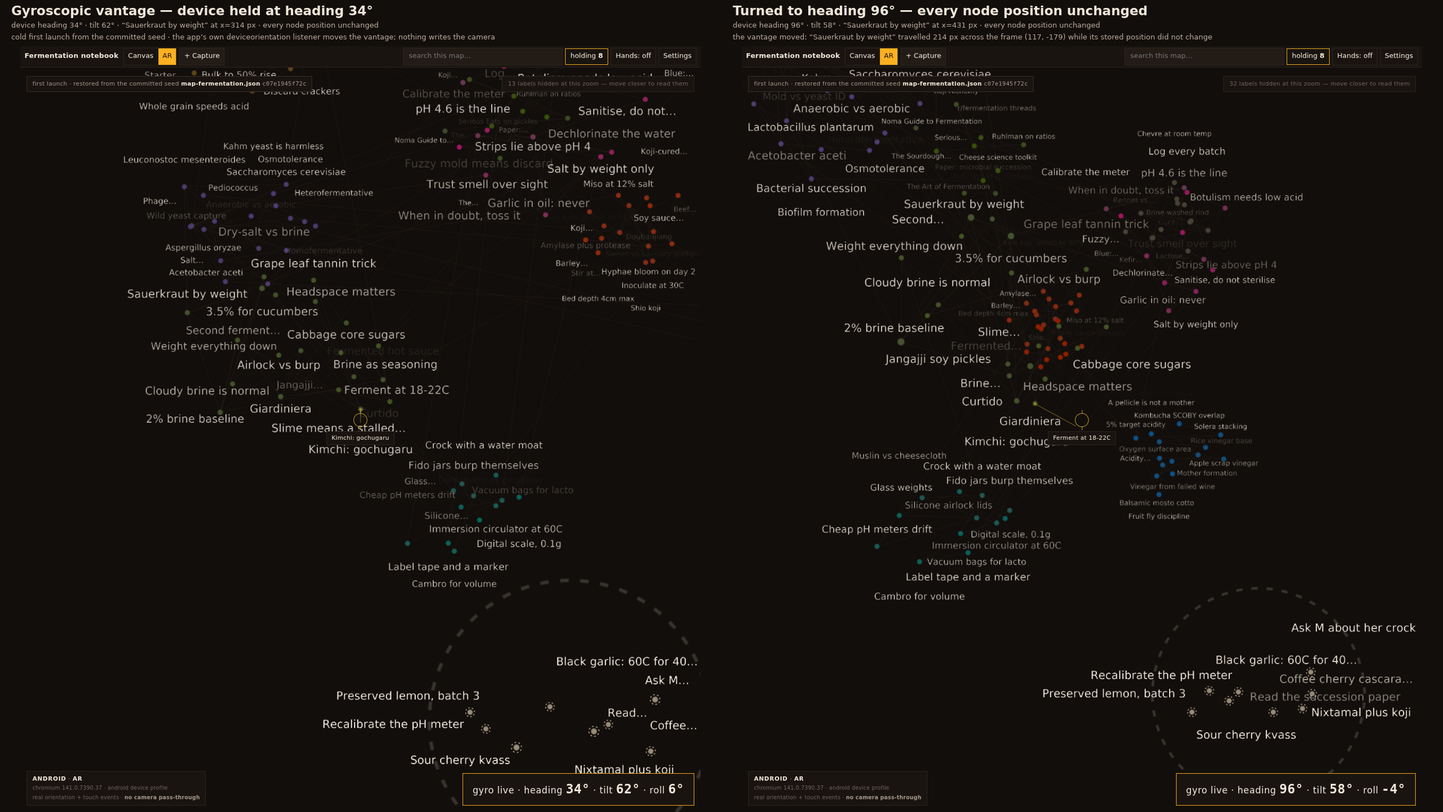
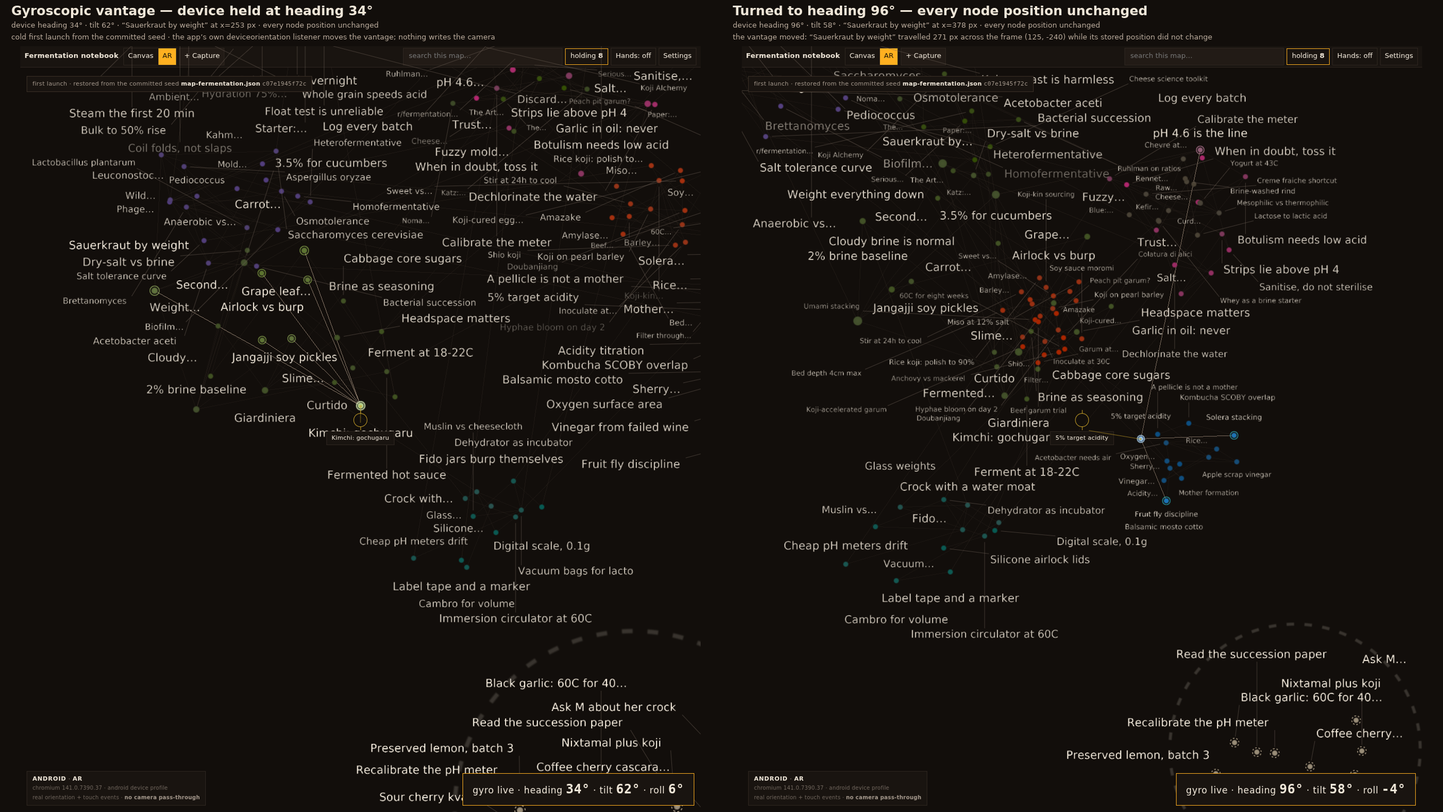
The AR reticle lights what it is aimed at
C10: the hero was two dense text fields at uniform weight with nothing
designed to be looked at first. Framing alone could not fix it — closer
was denser. The node the reticle names now takes the top rung of the
ladder and brings its filaments live, the same treatment a selected
node gets, without opening the editor: aiming is not selecting, and a
panel would cover the thing it is about. The brightest thing in the
frame is now the thing the readout names, joined to the ring by its
leader.

Recipes regenerated. Model invariants 11/11.

Claude-Session: https://claude.ai/code/session_01BT5p3inXumopt6DcdL91Hd

diff --git a/src/dist/app.js b/src/dist/app.js
@@ -4663,7 +4663,7 @@ tr.map:hover{background:var(--panel)}
       <button data-t="open-states" class="ghost">States</button>
       <button data-t="open-finder" class="ghost">Finder</button>
       <button data-t="open-maps" class="ghost">Maps</button>
-      <button data-t="open-settings" class="ghost">Settings</button>`,document.body.append(e,Lt("div",{id:"lenstag","data-t":"lens-tag"}),Lt("div",{id:"gesture","data-t":"gesture-hud"}),Lt("div",{id:"argyro","data-t":"ar-gyro"}),Lt("div",{id:"toast","data-t":"toast"}),Lt("div",{id:"tools","data-t":"tools"})),ve("[data-t=capture]").addEventListener("click",()=>this.quickAdd(ve("#capture").value)),ve("#capture").addEventListener("keydown",r=>{r.key==="Enter"&&this.quickAdd(ve("#capture").value)}),ve("[data-t=open-states]").addEventListener("click",()=>this.toggleStates()),ve("[data-t=hands-chip]").addEventListener("click",()=>this.toggleHands(!this.handsOn)),ve("[data-t=open-maps]").addEventListener("click",()=>this.openMapsHome()),ve("[data-t=open-settings]").addEventListener("click",()=>this.openSettings()),ve("[data-t=open-finder]").addEventListener("click",()=>this.toggleFinder());let n=ve("#search");n.addEventListener("input",()=>this.search(n.value)),n.addEventListener("keydown",r=>{r.key==="Enter"&&this.flyToHit(r.shiftKey?-1:1)});let i=ve("[data-t=lens-tabs]");for(let r of this.lenses()){let a=Lt("button",{"data-t":`lens-${r}`},r==="expansion"?"Mind expansion":r==="ar"?"AR":"Canvas");a.addEventListener("click",()=>this.setLens(r)),i.appendChild(a)}let s=ve("#tools");for(let r of Xs){let a={fist:"Grab",spread:"Closer",gather:"Back",two:"Select"},o=Lt("button",{"data-t":`tool-${r.id}`,title:`${r.name} \u2014 ${r.mouse}`},a[r.id]??r.name);o.addEventListener("click",()=>this.runHandOperation(r.id,!0)),s.appendChild(o)}}attachInput(){let e=ve("#world");this.surface==="windows"?this.controls.attachMouse(e):this.controls.attachTouch(e),window.addEventListener("keydown",n=>{let i=n.target?.tagName;i==="INPUT"||i==="TEXTAREA"||((n.key==="n"||n.key==="N")&&(n.preventDefault(),this.quickAdd("")),n.key==="Escape"&&(this.select(null),this.closeOverlays()))}),window.addEventListener("deviceorientation",n=>{if(this.lens!=="ar"||n.alpha===null)return;let i=this.gyro;this.gyro={alpha:n.alpha??0,beta:n.beta??90,gamma:n.gamma??0},i&&Math.abs(this.gyro.alpha-i.alpha)+Math.abs(this.gyro.beta-i.beta)>1.5&&(this.uiUntil.turning=this.now()+1400),this.controls.applyOrientation(this.gyro.alpha,this.gyro.beta,this.gyro.gamma),this.renderGyro()})}setLens(e){this.lens=e,this.scene.applyLens(e);for(let s of this.lenses())ve(`[data-t=lens-${s}]`).classList.toggle("on",s===e);ve("#tools").classList.toggle("show",e==="expansion"),document.body.classList.toggle("ar",e==="ar"),this.controls.gyroDriven=e==="ar",e==="ar"&&this.controls.resetGyroBase();let n=this.provenance(),i=n.isElectron?`${n.runtime} \xB7 ${n.platform}`:this.surface==="android"?`${n.runtime} \xB7 android device profile`:`${n.runtime} \xB7 ${n.platform}`;ve("#lenstag").innerHTML=`<b>${this.surface==="windows"?"Windows":"Android"}</b> \xB7 <b>${e==="expansion"?"mind expansion":e}</b> <span class="prov">${ft(i)}</span>`+(e==="ar"?' <span class="prov">real orientation + touch events \xB7 <b class="absent">no camera pass-through</b></span>':""),e==="expansion"&&this.frameAll(),this.renderGyro(),this.scene.markDirty()}renderReticle(){let e=document.getElementById("reticle");if(this.lens!=="ar"){e?.remove();return}e||(e=Lt("div",{id:"reticle","data-t":"ar-reticle"}),e.innerHTML='<div class="lead" data-t="reticle-lead"></div><div class="x"></div><div class="n" data-t="reticle-node"></div>',document.body.appendChild(e));let n=this.scene.renderer.domElement,i=n.width/2,s=n.height/2,r=null;for(let u of this.scene.screenPositions()){let f=Math.hypot(u.x-i,u.y-s);(!r||f<r.d)&&(r={id:u.id,d:f,x:u.x,y:u.y})}let a=n.width*.22,o=!!r&&r.d<a,l=o?this.store.doc.nodes[r.id]:null,c=ve("[data-t=reticle-node]",e);e.classList.toggle("on",o),c.textContent=l?`${l.text}${l.placed?"":" \xB7 in holding"}`:"pointing at open space";let h=ve("[data-t=reticle-lead]",e),d=n.width/Math.max(window.innerWidth,1);if(o&&r){let u=(r.x-i)/d,f=(r.y-s)/d,g=Math.hypot(u,f),_=13;h.style.width=`${Math.max(g-_,0).toFixed(1)}px`,h.style.transform=`rotate(${(Math.atan2(f,u)*180/Math.PI).toFixed(2)}deg) translateX(${_}px)`,h.style.opacity=g>_+4?"":"0"}else h.style.width="0px"}renderGyro(){let e=document.getElementById("argyro");if(!e||(e.classList.toggle("show",this.lens==="ar"),this.lens!=="ar"))return;let n=this.gyro;e.classList.toggle("turning",this.now()<this.uiUntil.turning),e.innerHTML=n?`gyro live \xB7 heading <b>${n.alpha.toFixed(0)}\xB0</b> \xB7 tilt <b>${n.beta.toFixed(0)}\xB0</b> \xB7 roll <b>${n.gamma.toFixed(0)}\xB0</b>`:"gyro \xB7 waiting for orientation"}safeInsets(){let e=Math.max(window.innerHeight,1),n=Math.max(window.innerWidth,1),i=h=>{let d=document.querySelector(h);if(!d||!d.offsetParent&&getComputedStyle(d).position!=="fixed")return 0;let u=d.getBoundingClientRect();return u.width>0&&u.height>0?u.height:0},s=22,r=Math.max(i("#tools"),i("#lenstag"),i("#argyro"),i("#gesture"))+12,a=i("#top"),o=12,l=12;for(let h of["#finder","#states"]){let d=document.querySelector(h);d&&(o=Math.max(o,d.getBoundingClientRect().right+14))}let c=document.getElementById("editor");return c&&(l=Math.max(l,n-c.getBoundingClientRect().left+14)),{top:Math.min((a+s)/e,.22),bottom:Math.min((r+s)/e,.22),left:Math.min(o/n,.38),right:Math.min(l/n,.38)}}frameNodes(e,n=1.3){let i=this.store.doc,s=e.map(a=>i.nodes[a]).filter(Boolean);if(!s.length)return;let r=this.scene.fitAll(s,n,this.safeInsets(),!1);this.scene.pose.target.copy(r.target),this.scene.pose.dist=r.dist}frameAll(e=1.04){let n=this.scene.fitAll(Cn(this.store.doc),e,this.safeInsets());this.scene.pose.target.copy(n.target),this.scene.pose.dist=n.dist,this.controls.minDist=Math.max(n.dist*.22,4),this.controls.maxDist=n.dist*2.1}resize(){let e=Math.floor(window.innerWidth),n=Math.floor(window.innerHeight);this.scene.setSize(e,n);let i=ve("#world");i.style.width=e+"px",i.style.height=n+"px"}quickAdd(e){let n=(e||"").trim(),i=this.store.quickAdd(n||"New thought");return ve("#capture").value="",this.select(i),this.toast(`Captured into holding \u2014 ${this.store.holdingCount()} waiting. Drag it out to place it.`),i}select(e){let n=e!==null&&this.selected===null;this.selected=e,this.scene.setSelection(e),this.renderEditor(),n&&this.clearOfPanels(e)}clearOfPanels(e){let n=this.scene.renderer.domElement,i=n.width/Math.max(window.innerWidth,1),s=0,r=0;for(let u of["#finder","#states"]){let f=document.querySelector(u);f&&(s=Math.max(s,(f.getBoundingClientRect().right+16)*i))}let a=document.getElementById("editor");if(a&&(r=Math.max(r,(n.width/i-a.getBoundingClientRect().left+16)*i)),!s&&!r)return;let{lo:o,hi:l}=this.scene.contentBoundsX();if(!isFinite(o)||!isFinite(l))return;let c=s,h=n.width-r,d=0;if(l-o<=h-c)o<c?d=c-o:l>h&&(d=h-l);else{let u=e?this.scene.screenPositions().find(m=>m.id===e):void 0,f=e?this.scene.labelRects.get(e):void 0,g=Math.min(u?u.x-u.r:1/0,f?f.x0:1/0),_=Math.max(u?u.x+u.r:-1/0,f?f.x1:-1/0);!isFinite(g)||!isFinite(_)?d=(c+h)/2-(o+l)/2:g<c?d=c-g:_>h&&(d=h-_)}Math.abs(d)<4||this.controls.panTarget(d,0)}search(e){this.hits=wg(this.store.doc,e).map(n=>n.id),this.hitIndex=0,this.scene.setHits(this.hits),this.refresh()}flyToHit(e=0){if(!this.hits.length)return;e&&(this.hitIndex=(this.hitIndex+e+this.hits.length)%this.hits.length);let n=this.hits[this.hitIndex];this.select(n),this.controls.flyTo(n,1300,this.lens==="expansion"?15:12)}async toggleHands(e){if(this.handsOn=e,this.renderHandPanel(),e){let n=document.getElementById("handvid");if(!n){this.handsOn=!1,this.toast("Hand tracking unavailable: no video surface",!0);return}try{await this.hands.start(n)}catch(i){this.handsOn=!1,this.toast(`Hand tracking unavailable: ${i.message}`,!0)}}else this.hands.stop();this.renderHandPanel()}onHand(e){if(this.drawLandmarks(e),this.renderHandPanel(),!e.present||e.pose==="none"){this.handGrab=null;return}this.runHandOperation(e.pose,!1,e)}runHandOperation(e,n,i){let s=Xs.find(o=>o.id===e);this.showGesture(n?`mouse:${e}`:e,s.operation.split(" \u2014 ")[0]);let r=this.now(),a=!n&&r-this.lastHandOp<250;if(e==="spread"||e==="gather"){if(a)return;this.lastHandOp=r,this.controls.zoom(e==="spread"?n?1/1.12:.985:n?1.12:1.015)}else if(e==="two"){let o=this.scene.renderer.domElement,l=i?(1-i.x)*o.width:o.width/2,c=i?i.y*o.height:o.height/2;this.select(this.scene.pick(l,c,26))}else if(e==="fist"){let o=this.scene.renderer.domElement,l=i?(1-i.x)*o.width:o.width/2,c=i?i.y*o.height:o.height/2;if(!this.handGrab){let _=this.scene.pick(l,c,70);if(!_)return;this.handGrab={ids:this.controls.clusterOf(_),x:l,y:c};return}let h=this.store.node(this.handGrab.ids[0]);if(!h){this.handGrab=null;return}let d=new L(...h.pos),u=this.scene.screenToWorld(this.handGrab.x,this.handGrab.y,d),g=this.scene.screenToWorld(l,c,d).sub(u);g.length()>.02&&(this.store.moveCluster(this.handGrab.ids,[g.x,g.y,g.z]),this.handGrab.x=l,this.handGrab.y=c)}this.scene.markDirty()}drawLandmarks(e){let n=document.getElementById("handlm");if(!n)return;n.width!==288&&(n.width=288,n.height=216);let i=n.getContext("2d");if(i.clearRect(0,0,n.width,n.height),!e.present)return;let s=[[0,1],[1,2],[2,3],[3,4],[0,5],[5,6],[6,7],[7,8],[5,9],[9,10],[10,11],[11,12],[9,13],[13,14],[14,15],[15,16],[13,17],[17,18],[18,19],[19,20],[0,17]],r=o=>(1-o.x)*n.width,a=o=>o.y*n.height;i.strokeStyle="#FFB020",i.lineWidth=2;for(let[o,l]of s){let c=e.landmarks[o],h=e.landmarks[l];!c||!h||(i.beginPath(),i.moveTo(r(c),a(c)),i.lineTo(r(h),a(h)),i.stroke())}i.fillStyle="#EFE6D8";for(let o of e.landmarks)i.beginPath(),i.arc(r(o),a(o),2.6,0,7),i.fill()}now(){return this.virtualNow??performance.now()}renderFrame(){let e=this.now();this.controls.tickTimers(e),this.controls.tickFly(e),this.tickUi(e),this.scene.clock=this.frozenClock??e/1e3,this.scene.render(),this.renderReticle(),this.renderHidden(),this.renderClusterProof()}renderAt(e){this.virtualNow=e,this.renderFrame()}tickUi(e){this.uiUntil.toast&&e>=this.uiUntil.toast&&(ve("#toast").className="",this.uiUntil.toast=0),this.uiUntil.gesture&&e>=this.uiUntil.gesture&&(ve("#gesture").classList.remove("show"),this.uiUntil.gesture=0)}loop=()=>{this.renderFrame(),this.raf=requestAnimationFrame(this.loop)};stop(){cancelAnimationFrame(this.raf)}start(){cancelAnimationFrame(this.raf),this.raf=requestAnimationFrame(this.loop)}refresh(){ve("[data-t=map-name]").textContent=this.store.doc.name,ve("[data-t=holding-count]").textContent=String(this.store.holdingCount()),ve("[data-t=holding-chip]").classList.toggle("on",this.store.holdingCount()>0),this.renderEditor(),ve("#finder")&&this.renderFinder(),ve("#settings")&&this.renderSyncStatus()}panelOpen(){return!!document.querySelector("#finder, #states, .overlay")}rightPanelOpen(){return!!document.querySelector("#editor, .overlay")}reflowSessionChips(){let e=this.panelOpen();for(let n of["origin","activity"]){let i=document.getElementById(n);i&&(i.style.visibility=e?"hidden":"")}}showOrigin(e){let n=document.getElementById("origin");n||(n=Lt("div",{id:"origin","data-t":"map-origin"}),document.body.appendChild(n)),n.className=e.from==="seed"?"seed":"",n.innerHTML=e.from==="seed"?`first launch \xB7 restored from the committed seed <b>${ft((e.file??"").replace("seeds/",""))}</b>`+(e.sha256?` <span class="mono">${ft(e.sha256.slice(0,12))}</span>`:""):"live state"}renderHidden(){let e=document.getElementById("hidden");e||(e=Lt("div",{id:"hidden","data-t":"labels-hidden"}),document.body.appendChild(e));let n=this.scene.suppressed;e.className=n>0&&!this.panelOpen()&&!this.rightPanelOpen()?"show":"",e.textContent=n>0?`${n} label${n===1?"":"s"} hidden at this zoom \u2014 move closer to read them`:"",this.renderUnlabelled(),this.renderLeaders()}renderLeaders(){let e=document.getElementById("leaders");e||(e=document.createElementNS("http://www.w3.org/2000/svg","svg"),e.setAttribute("id","leaders"),e.setAttribute("data-t","label-leaders"),document.body.appendChild(e));let i=this.scene.renderer.domElement.width/Math.max(window.innerWidth,1),s=this.scene.screenPositions(),r=[];this.leaderFor.clear();for(let a of s){let o=this.store.doc.nodes[a.id];if(!o)continue;let l=this.scene.labelRects.get(a.id);if(!l||l.alpha<=.02)continue;let c=this.scene.labelNeedsLeader.has(a.id);if(!(!c&&!o.placed)){if(!c)continue}let h=y=>{let S=Math.min(Math.max(y.x,l.x0),l.x1),M=Math.min(Math.max(y.y,l.y0),l.y1);return Math.hypot(y.x-S,y.y-M)},d=a,u=h(a);for(let y of s){let S=h(y);S<u&&(u=S,d=y)}if(!c&&d.id===a.id)continue;this.leaderFor.add(a.id);let f=a.x/i,g=a.y/i,_=Math.min(Math.max(f,l.x0/i),l.x1/i),m=Math.min(Math.max(g,l.y0/i),l.y1/i),p=Math.hypot(_-f,m-g)||1,w=Math.max(a.r/i,3)+2,T=Math.min(w/p,.9);r.push(`<line x1="${(f+(_-f)*T).toFixed(1)}" y1="${(g+(m-g)*T).toFixed(1)}" x2="${_.toFixed(1)}" y2="${m.toFixed(1)}"></line>`)}e.innerHTML=r.join("")}leaderFor=new Set;renderUnlabelled(){let e=document.getElementById("unlabelled");e||(e=Lt("div",{id:"unlabelled","data-t":"unlabelled-list"}),document.body.appendChild(e));let n=this.scene.suppressedIds,i=this.lens==="expansion"&&n.length>0&&!this.panelOpen()&&!this.rightPanelOpen();if(e.className=i?"show":"",!i){e.innerHTML="";return}let s=Math.max(1,Math.floor((e.clientHeight-26)/18)),r=n.map(l=>this.store.doc.nodes[l]).filter(Boolean).sort((l,c)=>l.createdAt-c.createdAt),a=r.slice(0,s),o=r.length-a.length;e.innerHTML=`<h4>${r.length} thought${r.length===1?"":"s"} on screen without room for a label</h4>`+a.map(l=>`<li><i style="background:${na[l.color]??"#8A7C70"}"></i>${ft(l.text)}</li>`).join("")+(o>0?`<li style="opacity:.6">\u2026and ${o} more</li>`:"")}renderClusterProof(){let e=document.getElementById("clusterproof"),n=this.controls?.lastClusterMove??null;if(!n){e?.remove();return}e||(e=Lt("div",{id:"clusterproof","data-t":"cluster-proof"}),document.body.appendChild(e)),e.className=this.panelOpen()?"":"show",e.innerHTML=`cluster <b>${ft(n.label)}</b> \xB7 ${n.members} nodes moved together<br>travelled <b>${n.travelled.toFixed(2)}</b> \xB7 internal arrangement drift <b>${n.drift.toFixed(6)}</b>`;let i=document.getElementById("origin"),r=i&&getComputedStyle(i).display!=="none"?i.getBoundingClientRect():null;e.style.top=r&&r.height>1?`${Math.round(r.bottom+8)}px`:""}renderActivity(){let e=document.getElementById("activity");e||(e=Lt("div",{id:"activity","data-t":"last-change"}),document.body.appendChild(e));let n=this.store.lastChange;if(!n){e.className="",e.textContent="";return}e.className="show"+(n.remote?" remote":""),e.innerHTML=n.remote?`last change arrived from <b>${ft(n.actor)}</b> \u2014 ${ft(n.what)}`:`last change made here \u2014 ${ft(n.what)}`}toast(e,n=!1){let i=ve("#toast");i.textContent=e,i.className="show"+(n?" bad":""),this.uiUntil.toast=this.now()+(n?9e3:4200)}showGesture(e,n){this.lastGesture={id:e,detail:n,at:performance.now()};let i=ve("#gesture"),s=Sp.find(h=>h.id===e),r=Xs.find(h=>h.id===e||`mouse:${h.id}`===e),a=vv[e],o=s?.name??r?.name??a?.name??(e==="gyro"?"Gyroscope":e),l=e.startsWith("mouse:")?r:a?.standsIn?Xs.find(h=>h.id===a.standsIn):void 0,c=l?e.startsWith("mouse:")?`${l.mouse.split(", or ")[0]} \u2014 the ${l.name} equivalent`:`${o} \u2014 the ${l.name} equivalent`:o;i.innerHTML=`<span class="n">${ft(c)}</span> <span class="o">\u2014 ${ft(n)}</span>`,i.classList.add("show"),this.uiUntil.gesture=this.now()+2600}get lastGestureFired(){return this.lastGesture}renderEditor(){let e=document.getElementById("editor"),n=this.selected?this.store.node(this.selected):void 0;if(!n){e?.remove();return}let i=e??(()=>{let a=Lt("div",{class:"panel",id:"editor","data-t":"editor"});return document.body.appendChild(a),a})(),s=this.controls.linkArmed===n.id;i.innerHTML=`
+      <button data-t="open-settings" class="ghost">Settings</button>`,document.body.append(e,Lt("div",{id:"lenstag","data-t":"lens-tag"}),Lt("div",{id:"gesture","data-t":"gesture-hud"}),Lt("div",{id:"argyro","data-t":"ar-gyro"}),Lt("div",{id:"toast","data-t":"toast"}),Lt("div",{id:"tools","data-t":"tools"})),ve("[data-t=capture]").addEventListener("click",()=>this.quickAdd(ve("#capture").value)),ve("#capture").addEventListener("keydown",r=>{r.key==="Enter"&&this.quickAdd(ve("#capture").value)}),ve("[data-t=open-states]").addEventListener("click",()=>this.toggleStates()),ve("[data-t=hands-chip]").addEventListener("click",()=>this.toggleHands(!this.handsOn)),ve("[data-t=open-maps]").addEventListener("click",()=>this.openMapsHome()),ve("[data-t=open-settings]").addEventListener("click",()=>this.openSettings()),ve("[data-t=open-finder]").addEventListener("click",()=>this.toggleFinder());let n=ve("#search");n.addEventListener("input",()=>this.search(n.value)),n.addEventListener("keydown",r=>{r.key==="Enter"&&this.flyToHit(r.shiftKey?-1:1)});let i=ve("[data-t=lens-tabs]");for(let r of this.lenses()){let a=Lt("button",{"data-t":`lens-${r}`},r==="expansion"?"Mind expansion":r==="ar"?"AR":"Canvas");a.addEventListener("click",()=>this.setLens(r)),i.appendChild(a)}let s=ve("#tools");for(let r of Xs){let a={fist:"Grab",spread:"Closer",gather:"Back",two:"Select"},o=Lt("button",{"data-t":`tool-${r.id}`,title:`${r.name} \u2014 ${r.mouse}`},a[r.id]??r.name);o.addEventListener("click",()=>this.runHandOperation(r.id,!0)),s.appendChild(o)}}attachInput(){let e=ve("#world");this.surface==="windows"?this.controls.attachMouse(e):this.controls.attachTouch(e),window.addEventListener("keydown",n=>{let i=n.target?.tagName;i==="INPUT"||i==="TEXTAREA"||((n.key==="n"||n.key==="N")&&(n.preventDefault(),this.quickAdd("")),n.key==="Escape"&&(this.select(null),this.closeOverlays()))}),window.addEventListener("deviceorientation",n=>{if(this.lens!=="ar"||n.alpha===null)return;let i=this.gyro;this.gyro={alpha:n.alpha??0,beta:n.beta??90,gamma:n.gamma??0},i&&Math.abs(this.gyro.alpha-i.alpha)+Math.abs(this.gyro.beta-i.beta)>1.5&&(this.uiUntil.turning=this.now()+1400),this.controls.applyOrientation(this.gyro.alpha,this.gyro.beta,this.gyro.gamma),this.renderGyro()})}setLens(e){this.lens=e,this.scene.applyLens(e);for(let s of this.lenses())ve(`[data-t=lens-${s}]`).classList.toggle("on",s===e);ve("#tools").classList.toggle("show",e==="expansion"),document.body.classList.toggle("ar",e==="ar"),this.controls.gyroDriven=e==="ar",e==="ar"&&this.controls.resetGyroBase();let n=this.provenance(),i=n.isElectron?`${n.runtime} \xB7 ${n.platform}`:this.surface==="android"?`${n.runtime} \xB7 android device profile`:`${n.runtime} \xB7 ${n.platform}`;ve("#lenstag").innerHTML=`<b>${this.surface==="windows"?"Windows":"Android"}</b> \xB7 <b>${e==="expansion"?"mind expansion":e}</b> <span class="prov">${ft(i)}</span>`+(e==="ar"?' <span class="prov">real orientation + touch events \xB7 <b class="absent">no camera pass-through</b></span>':""),e==="expansion"&&this.frameAll(),this.renderGyro(),this.scene.markDirty()}renderReticle(){let e=document.getElementById("reticle");if(this.lens!=="ar"){e?.remove();return}e||(e=Lt("div",{id:"reticle","data-t":"ar-reticle"}),e.innerHTML='<div class="lead" data-t="reticle-lead"></div><div class="x"></div><div class="n" data-t="reticle-node"></div>',document.body.appendChild(e));let n=this.scene.renderer.domElement,i=n.width/2,s=n.height/2,r=null;for(let f of this.scene.screenPositions()){let g=Math.hypot(f.x-i,f.y-s);(!r||g<r.d)&&(r={id:f.id,d:g,x:f.x,y:f.y})}let a=n.width*.22,o=!!r&&r.d<a,l=o?this.store.doc.nodes[r.id]:null,c=o?r.id:null;c!==this.aimedAt&&(this.aimedAt=c,this.scene.setSelection(c??this.selected));let h=ve("[data-t=reticle-node]",e);e.classList.toggle("on",o),h.textContent=l?`${l.text}${l.placed?"":" \xB7 in holding"}`:"pointing at open space";let d=ve("[data-t=reticle-lead]",e),u=n.width/Math.max(window.innerWidth,1);if(o&&r){let f=(r.x-i)/u,g=(r.y-s)/u,_=Math.hypot(f,g),m=13;d.style.width=`${Math.max(_-m,0).toFixed(1)}px`,d.style.transform=`rotate(${(Math.atan2(g,f)*180/Math.PI).toFixed(2)}deg) translateX(${m}px)`,d.style.opacity=_>m+4?"":"0"}else d.style.width="0px"}renderGyro(){let e=document.getElementById("argyro");if(!e||(e.classList.toggle("show",this.lens==="ar"),this.lens!=="ar"))return;let n=this.gyro;e.classList.toggle("turning",this.now()<this.uiUntil.turning),e.innerHTML=n?`gyro live \xB7 heading <b>${n.alpha.toFixed(0)}\xB0</b> \xB7 tilt <b>${n.beta.toFixed(0)}\xB0</b> \xB7 roll <b>${n.gamma.toFixed(0)}\xB0</b>`:"gyro \xB7 waiting for orientation"}safeInsets(){let e=Math.max(window.innerHeight,1),n=Math.max(window.innerWidth,1),i=h=>{let d=document.querySelector(h);if(!d||!d.offsetParent&&getComputedStyle(d).position!=="fixed")return 0;let u=d.getBoundingClientRect();return u.width>0&&u.height>0?u.height:0},s=22,r=Math.max(i("#tools"),i("#lenstag"),i("#argyro"),i("#gesture"))+12,a=i("#top"),o=12,l=12;for(let h of["#finder","#states"]){let d=document.querySelector(h);d&&(o=Math.max(o,d.getBoundingClientRect().right+14))}let c=document.getElementById("editor");return c&&(l=Math.max(l,n-c.getBoundingClientRect().left+14)),{top:Math.min((a+s)/e,.22),bottom:Math.min((r+s)/e,.22),left:Math.min(o/n,.38),right:Math.min(l/n,.38)}}frameNodes(e,n=1.3){let i=this.store.doc,s=e.map(a=>i.nodes[a]).filter(Boolean);if(!s.length)return;let r=this.scene.fitAll(s,n,this.safeInsets(),!1);this.scene.pose.target.copy(r.target),this.scene.pose.dist=r.dist}frameAll(e=1.04){let n=this.scene.fitAll(Cn(this.store.doc),e,this.safeInsets());this.scene.pose.target.copy(n.target),this.scene.pose.dist=n.dist,this.controls.minDist=Math.max(n.dist*.22,4),this.controls.maxDist=n.dist*2.1}resize(){let e=Math.floor(window.innerWidth),n=Math.floor(window.innerHeight);this.scene.setSize(e,n);let i=ve("#world");i.style.width=e+"px",i.style.height=n+"px"}quickAdd(e){let n=(e||"").trim(),i=this.store.quickAdd(n||"New thought");return ve("#capture").value="",this.select(i),this.toast(`Captured into holding \u2014 ${this.store.holdingCount()} waiting. Drag it out to place it.`),i}select(e){let n=e!==null&&this.selected===null;this.selected=e,this.scene.setSelection(e),this.renderEditor(),n&&this.clearOfPanels(e)}clearOfPanels(e){let n=this.scene.renderer.domElement,i=n.width/Math.max(window.innerWidth,1),s=0,r=0;for(let u of["#finder","#states"]){let f=document.querySelector(u);f&&(s=Math.max(s,(f.getBoundingClientRect().right+16)*i))}let a=document.getElementById("editor");if(a&&(r=Math.max(r,(n.width/i-a.getBoundingClientRect().left+16)*i)),!s&&!r)return;let{lo:o,hi:l}=this.scene.contentBoundsX();if(!isFinite(o)||!isFinite(l))return;let c=s,h=n.width-r,d=0;if(l-o<=h-c)o<c?d=c-o:l>h&&(d=h-l);else{let u=e?this.scene.screenPositions().find(m=>m.id===e):void 0,f=e?this.scene.labelRects.get(e):void 0,g=Math.min(u?u.x-u.r:1/0,f?f.x0:1/0),_=Math.max(u?u.x+u.r:-1/0,f?f.x1:-1/0);!isFinite(g)||!isFinite(_)?d=(c+h)/2-(o+l)/2:g<c?d=c-g:_>h&&(d=h-_)}Math.abs(d)<4||this.controls.panTarget(d,0)}search(e){this.hits=wg(this.store.doc,e).map(n=>n.id),this.hitIndex=0,this.scene.setHits(this.hits),this.refresh()}flyToHit(e=0){if(!this.hits.length)return;e&&(this.hitIndex=(this.hitIndex+e+this.hits.length)%this.hits.length);let n=this.hits[this.hitIndex];this.select(n),this.controls.flyTo(n,1300,this.lens==="expansion"?15:12)}async toggleHands(e){if(this.handsOn=e,this.renderHandPanel(),e){let n=document.getElementById("handvid");if(!n){this.handsOn=!1,this.toast("Hand tracking unavailable: no video surface",!0);return}try{await this.hands.start(n)}catch(i){this.handsOn=!1,this.toast(`Hand tracking unavailable: ${i.message}`,!0)}}else this.hands.stop();this.renderHandPanel()}onHand(e){if(this.drawLandmarks(e),this.renderHandPanel(),!e.present||e.pose==="none"){this.handGrab=null;return}this.runHandOperation(e.pose,!1,e)}runHandOperation(e,n,i){let s=Xs.find(o=>o.id===e);this.showGesture(n?`mouse:${e}`:e,s.operation.split(" \u2014 ")[0]);let r=this.now(),a=!n&&r-this.lastHandOp<250;if(e==="spread"||e==="gather"){if(a)return;this.lastHandOp=r,this.controls.zoom(e==="spread"?n?1/1.12:.985:n?1.12:1.015)}else if(e==="two"){let o=this.scene.renderer.domElement,l=i?(1-i.x)*o.width:o.width/2,c=i?i.y*o.height:o.height/2;this.select(this.scene.pick(l,c,26))}else if(e==="fist"){let o=this.scene.renderer.domElement,l=i?(1-i.x)*o.width:o.width/2,c=i?i.y*o.height:o.height/2;if(!this.handGrab){let _=this.scene.pick(l,c,70);if(!_)return;this.handGrab={ids:this.controls.clusterOf(_),x:l,y:c};return}let h=this.store.node(this.handGrab.ids[0]);if(!h){this.handGrab=null;return}let d=new L(...h.pos),u=this.scene.screenToWorld(this.handGrab.x,this.handGrab.y,d),g=this.scene.screenToWorld(l,c,d).sub(u);g.length()>.02&&(this.store.moveCluster(this.handGrab.ids,[g.x,g.y,g.z]),this.handGrab.x=l,this.handGrab.y=c)}this.scene.markDirty()}drawLandmarks(e){let n=document.getElementById("handlm");if(!n)return;n.width!==288&&(n.width=288,n.height=216);let i=n.getContext("2d");if(i.clearRect(0,0,n.width,n.height),!e.present)return;let s=[[0,1],[1,2],[2,3],[3,4],[0,5],[5,6],[6,7],[7,8],[5,9],[9,10],[10,11],[11,12],[9,13],[13,14],[14,15],[15,16],[13,17],[17,18],[18,19],[19,20],[0,17]],r=o=>(1-o.x)*n.width,a=o=>o.y*n.height;i.strokeStyle="#FFB020",i.lineWidth=2;for(let[o,l]of s){let c=e.landmarks[o],h=e.landmarks[l];!c||!h||(i.beginPath(),i.moveTo(r(c),a(c)),i.lineTo(r(h),a(h)),i.stroke())}i.fillStyle="#EFE6D8";for(let o of e.landmarks)i.beginPath(),i.arc(r(o),a(o),2.6,0,7),i.fill()}now(){return this.virtualNow??performance.now()}renderFrame(){let e=this.now();this.controls.tickTimers(e),this.controls.tickFly(e),this.tickUi(e),this.scene.clock=this.frozenClock??e/1e3,this.scene.render(),this.renderReticle(),this.renderHidden(),this.renderClusterProof()}renderAt(e){this.virtualNow=e,this.renderFrame()}tickUi(e){this.uiUntil.toast&&e>=this.uiUntil.toast&&(ve("#toast").className="",this.uiUntil.toast=0),this.uiUntil.gesture&&e>=this.uiUntil.gesture&&(ve("#gesture").classList.remove("show"),this.uiUntil.gesture=0)}loop=()=>{this.renderFrame(),this.raf=requestAnimationFrame(this.loop)};stop(){cancelAnimationFrame(this.raf)}start(){cancelAnimationFrame(this.raf),this.raf=requestAnimationFrame(this.loop)}refresh(){ve("[data-t=map-name]").textContent=this.store.doc.name,ve("[data-t=holding-count]").textContent=String(this.store.holdingCount()),ve("[data-t=holding-chip]").classList.toggle("on",this.store.holdingCount()>0),this.renderEditor(),ve("#finder")&&this.renderFinder(),ve("#settings")&&this.renderSyncStatus()}panelOpen(){return!!document.querySelector("#finder, #states, .overlay")}rightPanelOpen(){return!!document.querySelector("#editor, .overlay")}reflowSessionChips(){let e=this.panelOpen();for(let n of["origin","activity"]){let i=document.getElementById(n);i&&(i.style.visibility=e?"hidden":"")}}showOrigin(e){let n=document.getElementById("origin");n||(n=Lt("div",{id:"origin","data-t":"map-origin"}),document.body.appendChild(n)),n.className=e.from==="seed"?"seed":"",n.innerHTML=e.from==="seed"?`first launch \xB7 restored from the committed seed <b>${ft((e.file??"").replace("seeds/",""))}</b>`+(e.sha256?` <span class="mono">${ft(e.sha256.slice(0,12))}</span>`:""):"live state"}renderHidden(){let e=document.getElementById("hidden");e||(e=Lt("div",{id:"hidden","data-t":"labels-hidden"}),document.body.appendChild(e));let n=this.scene.suppressed;e.className=n>0&&!this.panelOpen()&&!this.rightPanelOpen()?"show":"",e.textContent=n>0?`${n} label${n===1?"":"s"} hidden at this zoom \u2014 move closer to read them`:"",this.renderUnlabelled(),this.renderLeaders()}renderLeaders(){let e=document.getElementById("leaders");e||(e=document.createElementNS("http://www.w3.org/2000/svg","svg"),e.setAttribute("id","leaders"),e.setAttribute("data-t","label-leaders"),document.body.appendChild(e));let i=this.scene.renderer.domElement.width/Math.max(window.innerWidth,1),s=this.scene.screenPositions(),r=[];this.leaderFor.clear();for(let a of s){let o=this.store.doc.nodes[a.id];if(!o)continue;let l=this.scene.labelRects.get(a.id);if(!l||l.alpha<=.02)continue;let c=this.scene.labelNeedsLeader.has(a.id);if(!(!c&&!o.placed)){if(!c)continue}let h=y=>{let S=Math.min(Math.max(y.x,l.x0),l.x1),M=Math.min(Math.max(y.y,l.y0),l.y1);return Math.hypot(y.x-S,y.y-M)},d=a,u=h(a);for(let y of s){let S=h(y);S<u&&(u=S,d=y)}if(!c&&d.id===a.id)continue;this.leaderFor.add(a.id);let f=a.x/i,g=a.y/i,_=Math.min(Math.max(f,l.x0/i),l.x1/i),m=Math.min(Math.max(g,l.y0/i),l.y1/i),p=Math.hypot(_-f,m-g)||1,w=Math.max(a.r/i,3)+2,T=Math.min(w/p,.9);r.push(`<line x1="${(f+(_-f)*T).toFixed(1)}" y1="${(g+(m-g)*T).toFixed(1)}" x2="${_.toFixed(1)}" y2="${m.toFixed(1)}"></line>`)}e.innerHTML=r.join("")}leaderFor=new Set;aimedAt=null;renderUnlabelled(){let e=document.getElementById("unlabelled");e||(e=Lt("div",{id:"unlabelled","data-t":"unlabelled-list"}),document.body.appendChild(e));let n=this.scene.suppressedIds,i=this.lens==="expansion"&&n.length>0&&!this.panelOpen()&&!this.rightPanelOpen();if(e.className=i?"show":"",!i){e.innerHTML="";return}let s=Math.max(1,Math.floor((e.clientHeight-26)/18)),r=n.map(l=>this.store.doc.nodes[l]).filter(Boolean).sort((l,c)=>l.createdAt-c.createdAt),a=r.slice(0,s),o=r.length-a.length;e.innerHTML=`<h4>${r.length} thought${r.length===1?"":"s"} on screen without room for a label</h4>`+a.map(l=>`<li><i style="background:${na[l.color]??"#8A7C70"}"></i>${ft(l.text)}</li>`).join("")+(o>0?`<li style="opacity:.6">\u2026and ${o} more</li>`:"")}renderClusterProof(){let e=document.getElementById("clusterproof"),n=this.controls?.lastClusterMove??null;if(!n){e?.remove();return}e||(e=Lt("div",{id:"clusterproof","data-t":"cluster-proof"}),document.body.appendChild(e)),e.className=this.panelOpen()?"":"show",e.innerHTML=`cluster <b>${ft(n.label)}</b> \xB7 ${n.members} nodes moved together<br>travelled <b>${n.travelled.toFixed(2)}</b> \xB7 internal arrangement drift <b>${n.drift.toFixed(6)}</b>`;let i=document.getElementById("origin"),r=i&&getComputedStyle(i).display!=="none"?i.getBoundingClientRect():null;e.style.top=r&&r.height>1?`${Math.round(r.bottom+8)}px`:""}renderActivity(){let e=document.getElementById("activity");e||(e=Lt("div",{id:"activity","data-t":"last-change"}),document.body.appendChild(e));let n=this.store.lastChange;if(!n){e.className="",e.textContent="";return}e.className="show"+(n.remote?" remote":""),e.innerHTML=n.remote?`last change arrived from <b>${ft(n.actor)}</b> \u2014 ${ft(n.what)}`:`last change made here \u2014 ${ft(n.what)}`}toast(e,n=!1){let i=ve("#toast");i.textContent=e,i.className="show"+(n?" bad":""),this.uiUntil.toast=this.now()+(n?9e3:4200)}showGesture(e,n){this.lastGesture={id:e,detail:n,at:performance.now()};let i=ve("#gesture"),s=Sp.find(h=>h.id===e),r=Xs.find(h=>h.id===e||`mouse:${h.id}`===e),a=vv[e],o=s?.name??r?.name??a?.name??(e==="gyro"?"Gyroscope":e),l=e.startsWith("mouse:")?r:a?.standsIn?Xs.find(h=>h.id===a.standsIn):void 0,c=l?e.startsWith("mouse:")?`${l.mouse.split(", or ")[0]} \u2014 the ${l.name} equivalent`:`${o} \u2014 the ${l.name} equivalent`:o;i.innerHTML=`<span class="n">${ft(c)}</span> <span class="o">\u2014 ${ft(n)}</span>`,i.classList.add("show"),this.uiUntil.gesture=this.now()+2600}get lastGestureFired(){return this.lastGesture}renderEditor(){let e=document.getElementById("editor"),n=this.selected?this.store.node(this.selected):void 0;if(!n){e?.remove();return}let i=e??(()=>{let a=Lt("div",{class:"panel",id:"editor","data-t":"editor"});return document.body.appendChild(a),a})(),s=this.controls.linkArmed===n.id;i.innerHTML=`
       <h3>Node${n.placed?"":" \xB7 unplaced, in holding"}</h3>
       <label>Text</label><input data-t="ed-text" value="${ft(n.text)}">
       <label>Label</label><input data-t="ed-label" value="${ft(n.label)}">

diff --git a/src/app/main.ts b/src/app/main.ts
@@ -257,6 +257,18 @@ export class App {
     const reach = el0.width * 0.22;
     const on = !!best && best.d < reach;
     const n = on ? this.store.doc.nodes[best!.id] : null;
+    // WHAT YOU ARE AIMED AT IS LIT. An AR frame is a dense field of names at
+    // any distance, and without this nothing in it was designed to be looked at
+    // first — the reticle named a thought and the thought looked like every
+    // other thought. The aimed node takes the top rung of the ladder and brings
+    // its filaments live, which is the same treatment a selected node gets,
+    // WITHOUT opening the editor: aiming is not selecting, and a panel would
+    // cover the thing it is about.
+    const aimed = on ? best!.id : null;
+    if (aimed !== this.aimedAt) {
+      this.aimedAt = aimed;
+      this.scene.setSelection(aimed ?? this.selected);
+    }
     const label = $('[data-t=reticle-node]', r);
     r.classList.toggle('on', on);
     label.textContent = n
@@ -718,6 +730,9 @@ export class App {
 
   /** Which labels needed a leader this frame, for anything checking the frame. */
   readonly leaderFor = new Set<NodeId>();
+
+  /** The node the AR reticle is currently aimed at, if any. */
+  private aimedAt: NodeId | null = null;
 
   /**
    * The names the frame could not label, listed in the margin it cannot fill.

diff --git a/docs/capture/19.md b/docs/capture/19.md
@@ -5,7 +5,7 @@
 | | |
 |---|---|
 | Surface | windows |
-| Map | map-talk |
+| Map | map-fermentation |
 | Camera clip | none |
 | Minimum | 1920x1080, at least 24 fps, at least 15 s |
 | Driver | `harness/drivers/motion.mjs`, entry `19` |
